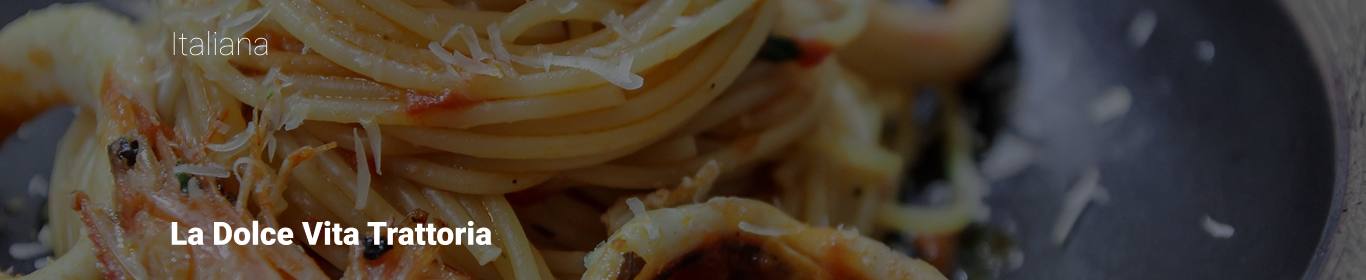
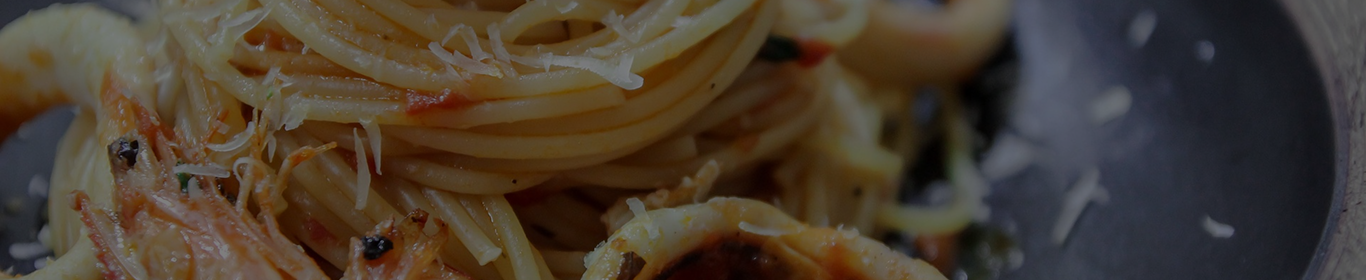
Pratica 1

Changed region(s): [[0.123, 0.7714, 0.369, 0.8857], [0.123, 0.1143, 0.2152, 0.2]]

diff --git a/src/components/BannerPerfil/styles.ts b/src/components/BannerPerfil/styles.ts
@@ -27,10 +27,21 @@ export const Imagem = styled.div`
     padding-top: 340px;
     display: flex;
     justify-content: space-between;
+    color: ${cores.branca};
+    font-size: 32px;
+
+    h3 {
+      color: ${cores.branca};
+      font-size: 32px;
+      font-weight: normal;
+      position: absolute;
+      top: 24px;
+    }
   }
 `
 export const Titulo = styled.h2`
-  color : ${cores.branca}
-  font-size: 36px;
-  max-width: 450px;
+  color: ${cores.branca}
+  font-size: 4px;
+  position: absolute;
+  bottom: 48px;
 `

diff --git a/src/components/BannerPerfil/index.tsx b/src/components/BannerPerfil/index.tsx
@@ -1,9 +1,14 @@
-import { Imagem } from './styles'
+import { Imagem, Titulo } from './styles'
 
 import apresentacao from '../../assets/images/apresentacao.png'
 
 const Banner = () => (
-  <Imagem style={{ backgroundImage: `url(${apresentacao})` }} />
+  <Imagem style={{ backgroundImage: `url(${apresentacao})` }}>
+    <div className="container">
+      <h3> italiana </h3>
+      <Titulo>La Dolce Vita Trattoria</Titulo>
+    </div>
+  </Imagem>
 )
 
 export default Banner
